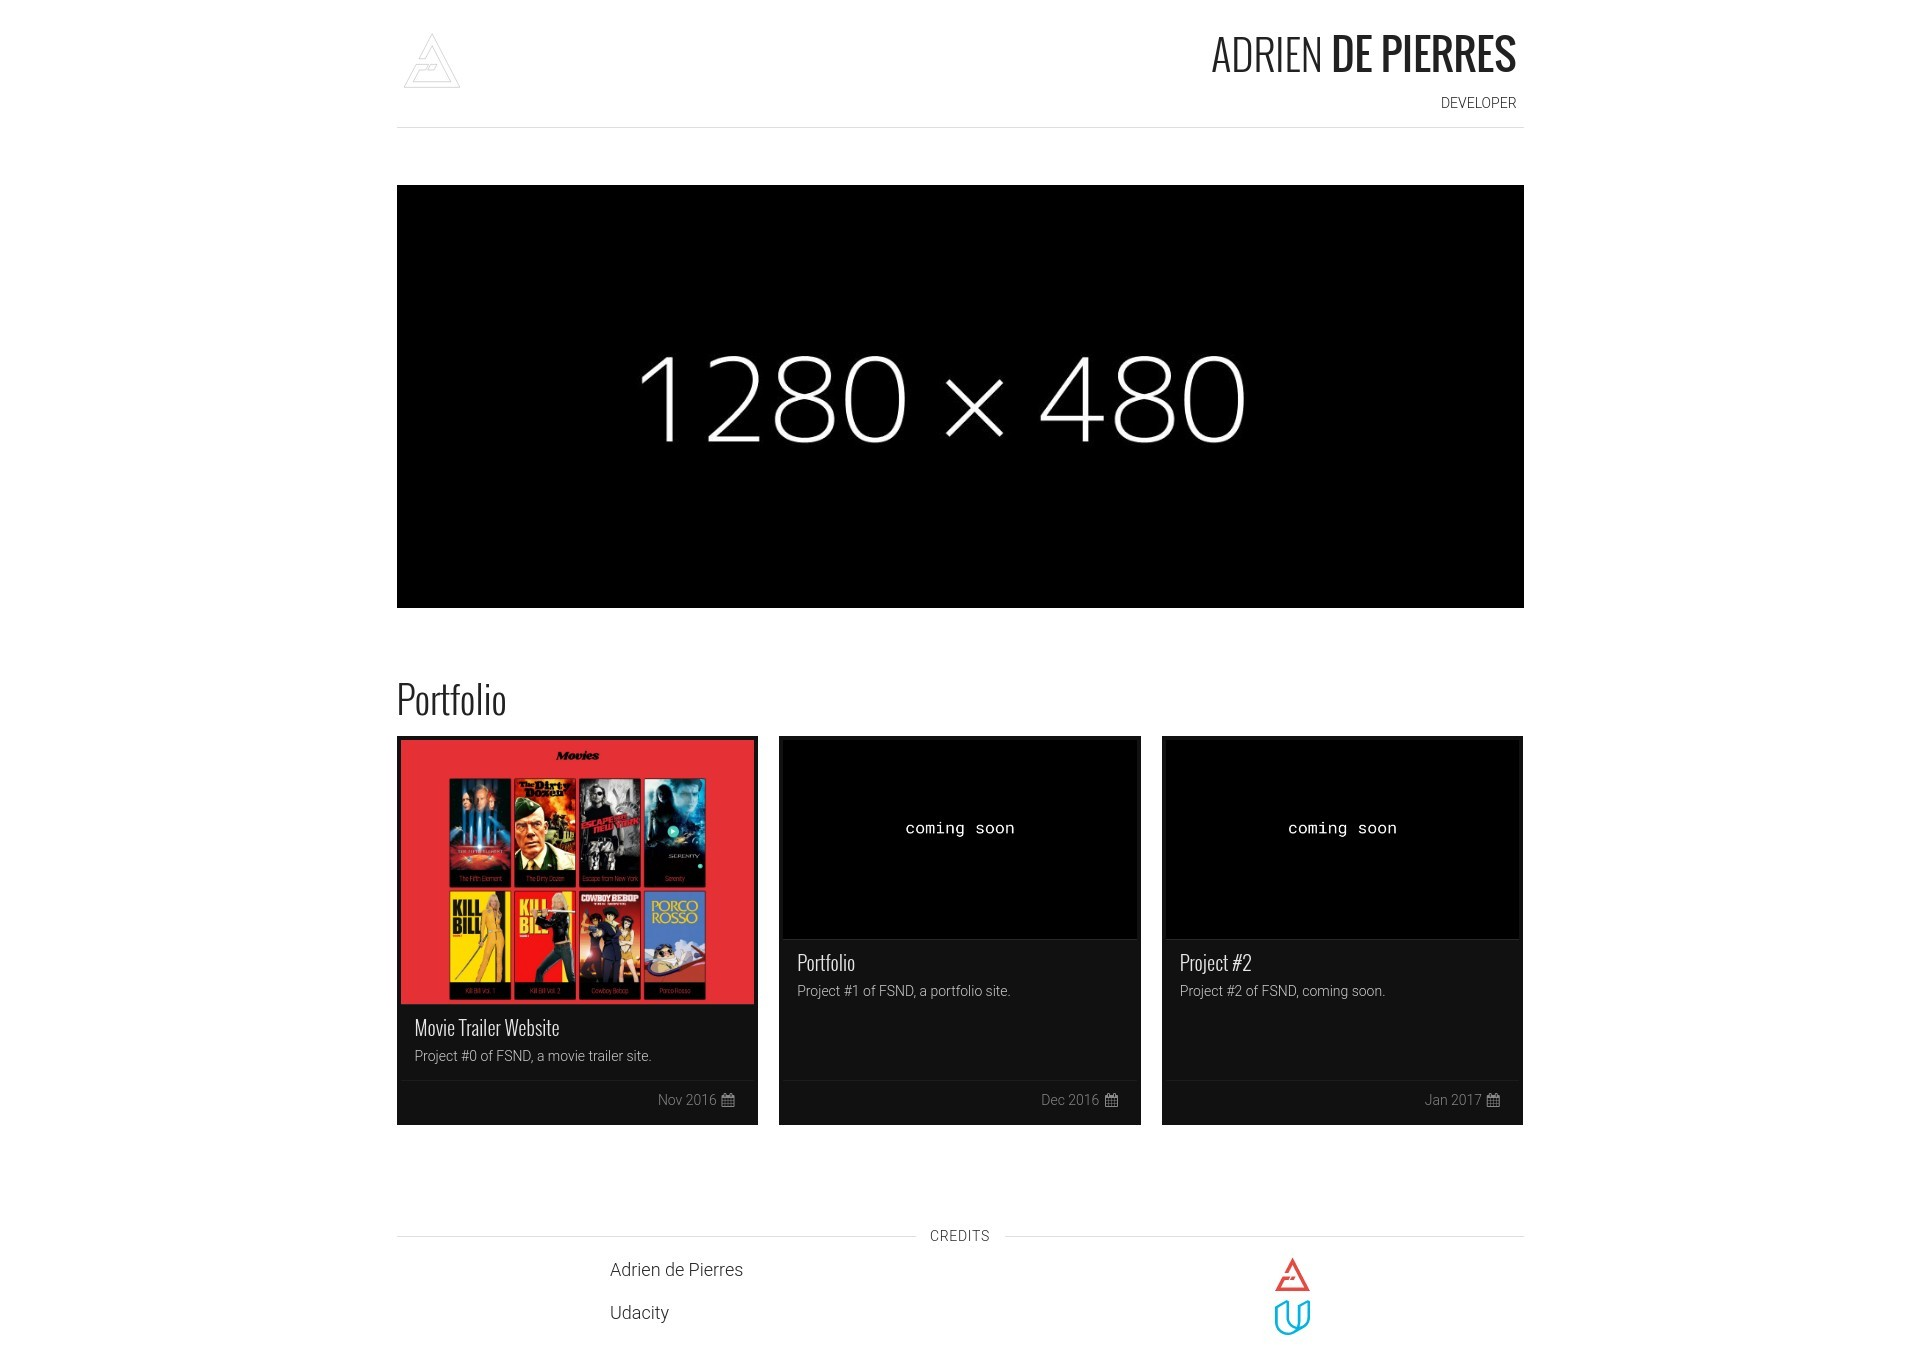
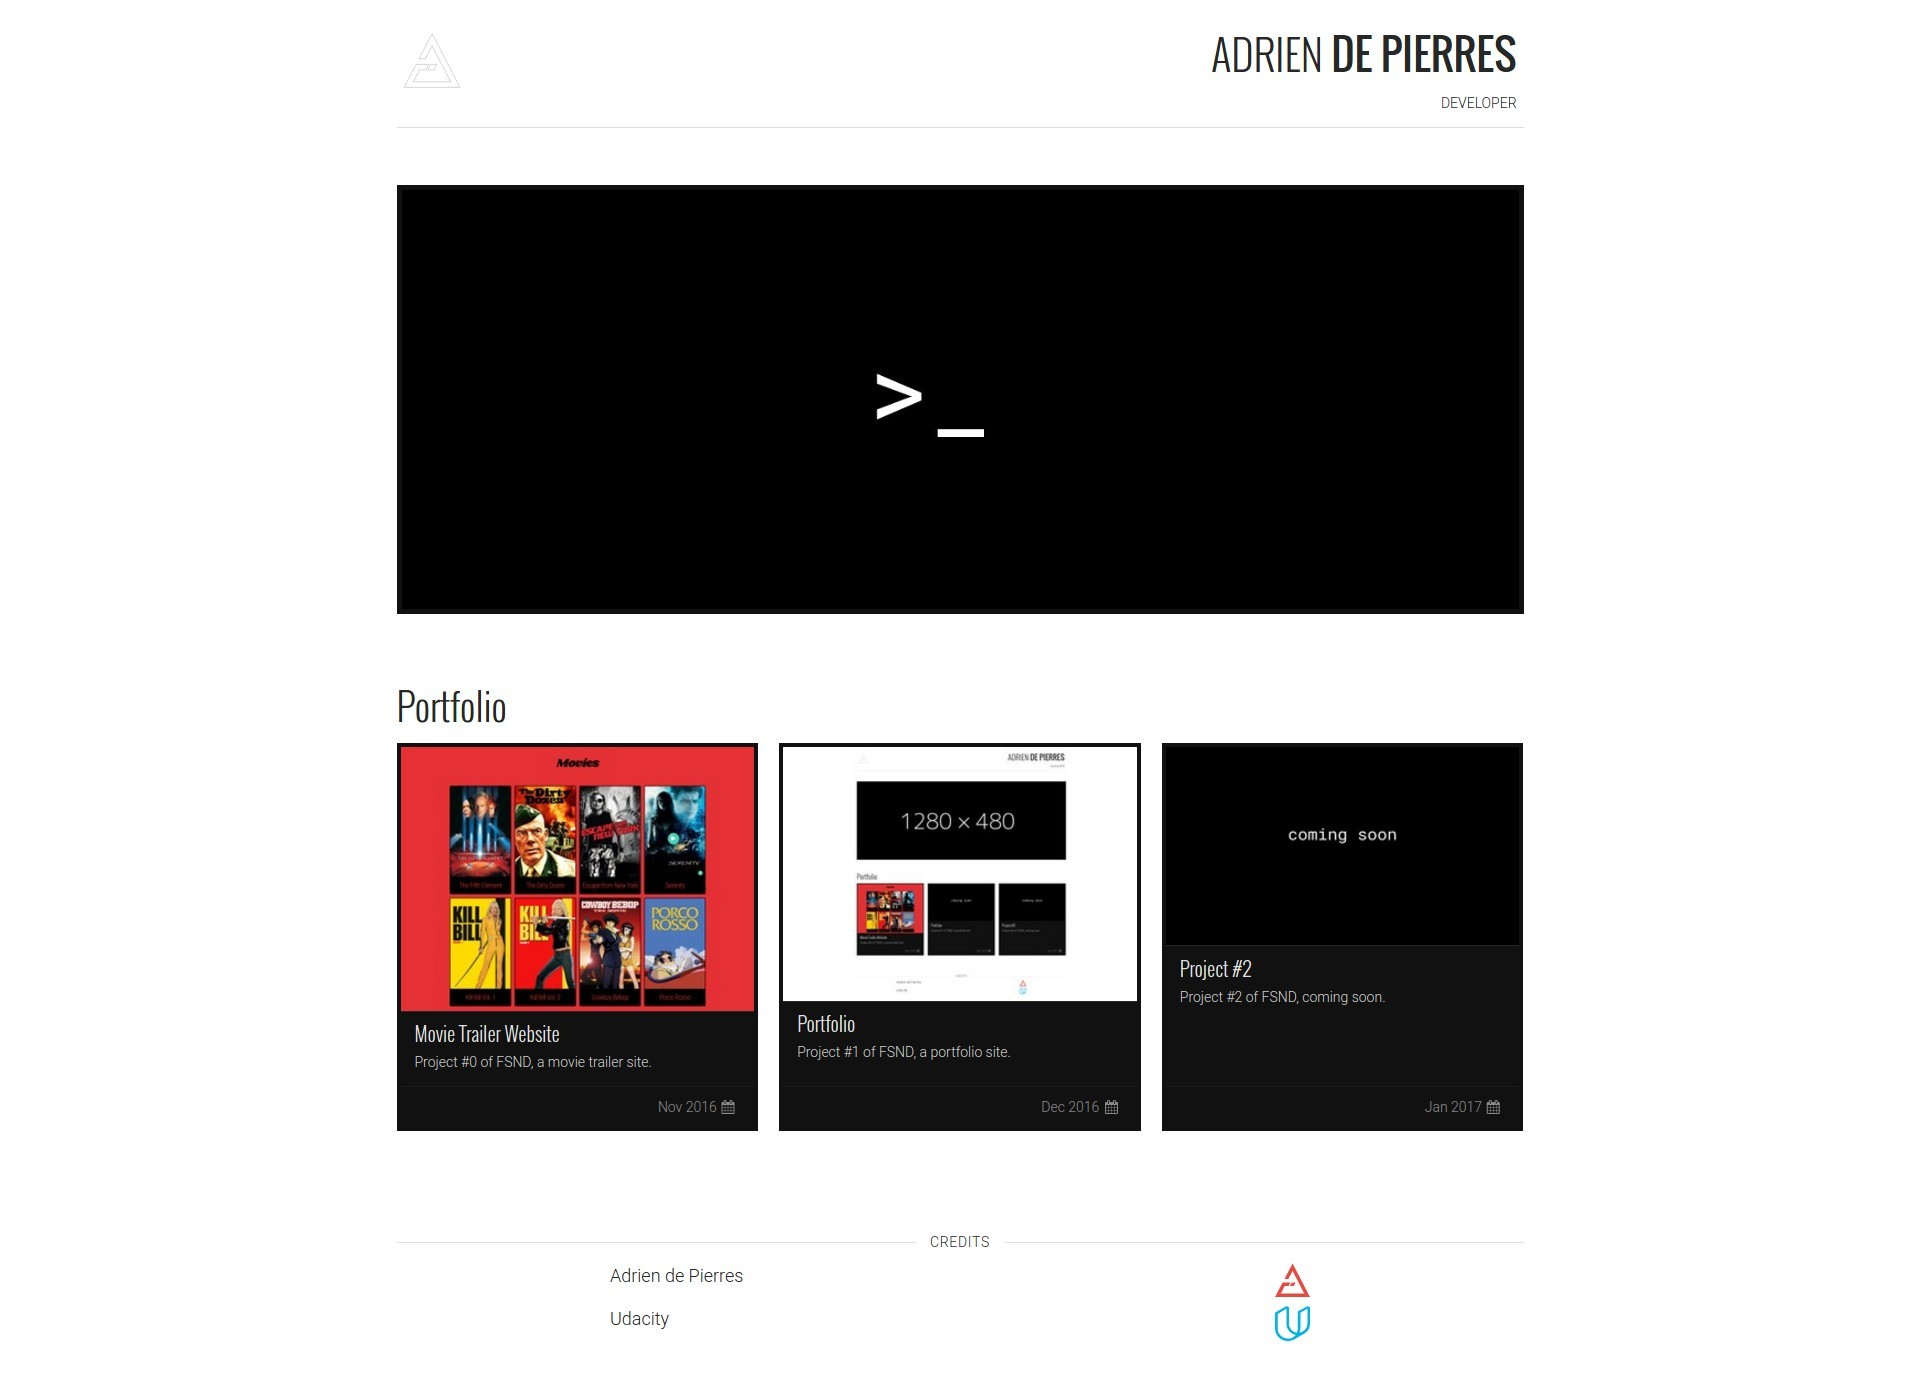
Update portfolio site screenshot, add to root for README.md.

diff --git a/pub/index.html b/pub/index.html
@@ -169,7 +169,67 @@
             <section class="content">
               <img src="&#x2F;projects&#x2F;fsnd_p1_portfolio&#x2F;screen-w1280.jpg" alt="screenshot" class="ui fluid bordered image">
               <p><h1 id="portfolio">Portfolio</h1>
-<h2 id="caveats">Caveats</h2>
+<p>Project #1 of FSND</p>
+<p>A portfolio static site generated with Gulp.
+All source files are in <code>src</code> and <code>semantic</code>.
+All built files are in <code>pub</code>.</p>
+<p>All development and testing was done on Linux (elementary OS 0.4 / Ubuntu 16.04) and Node.js v6.9.2, running the project under Windows was not tested, but it should run.</p>
+<p>A modern browser (IE 11 / Edge, current versions of Chrome / Firefox / Safari) that supports current flexbox is required to view the site.</p>
+<p>An internet connection is required to access online resources.</p>
+<h2 id="download-and-setup">Download and Setup</h2>
+<h3 id="download">Download</h3>
+<p>To download this project either:</p>
+<ul>
+<li>Clone this repo with <code>https://github.com/arccoza/fsnd_p1_portfolio.git</code></li>
+<li>Or download it as an archive from <a href="https://github.com/arccoza/fsnd_p1_portfolio/archive/master.zip">here</a> and unzip.</li>
+</ul>
+<h3 id="setup">Setup</h3>
+<p>Once you have the project in the <code>fsnd_p1_portfolio</code> directory (or wherever you put it) ensure you have a recent version of NPM and Node.js installed (&gt;= v6.9.2), instructions for installing Node.js on your platform can be found <a href="https://nodejs.org/en/download/package-manager/">here</a>. Once that&#39;s all done, install the projects dependencies, like so:</p>
+<ol>
+<li>Navigate to the project folder from the terminal.</li>
+<li>From the terminal in the project folder type <code>npm install</code>.</li>
+<li>NPM should successfully install the projects dependencies.</li>
+<li>Install Gulp globally with <code>npm install -g gulp-cli</code> or <code>sudo npm install -g gulp-cli</code> for linux/osx.</li>
+<li>Install Serve globally with <code>npm install -g serve</code> or <code>sudo npm install -g serve</code> for linux/osx.</li>
+</ol>
+<h2 id="building-and-running">Building and Running</h2>
+<p>To build and run the static site do:</p>
+<ol>
+<li>From the project folder in terminal type <code>gulp build</code>, this will build the entire project.<ul>
+<li>There are other build options available, but you should run a complete build at least once.</li>
+<li><code>build:site</code> will build only the html, javascript and images required for the site. Run this when modifying content in the <code>src</code> folder.<ul>
+<li><code>watch:site</code> will watch the <code>src</code> folder for changes and rebuild as needed.</li>
+</ul>
+</li>
+<li><code>build:ui</code> will build only the CSS and javascript required for site layout and elements. Run this when modifying content in the <code>semantic</code> folder.<ul>
+<li><code>watch:ui</code> will watch the <code>semantic</code> folder for changes and rebuild as needed.</li>
+</ul>
+</li>
+<li><code>watch</code> will watch both the <code>src</code> and <code>semantic</code> folders for changes.</li>
+</ul>
+</li>
+<li>After building the site, run <code>server pub -c</code> from the terminal inside the project folder to launch a webserver on <a href="http://localhost:3000/">http://localhost:3000/</a> hosting the files in the <code>pub</code> folder.</li>
+<li>Open <a href="http://localhost:3000/">http://localhost:3000/</a> in your browser to view the site.</li>
+</ol>
+<h2 id="usage">Usage</h2>
+<p>The site is fully responsive, test it with dev tools. Hover over images in the Portfolio section and click the view button to see a modal with more info about the project.</p>
+<h2 id="caveats-and-additional-info">Caveats and Additional Info</h2>
+<h3 id="site-css">Site CSS</h3>
+<p>The project uses the Semantic UI framework, using LESS.
+You can find the sites source CSS and LESS from the project folder in <code>semantic/src/site/</code>.</p>
+<p>These files contain site CSS and LESS:</p>
+<ul>
+<li><code>globals/reset.overrides</code></li>
+<li><code>globals/site.overrides</code></li>
+<li><code>globals/site.variables</code></li>
+<li><code>views/card.overrides</code></li>
+<li><code>views/card.variables</code></li>
+<li><code>collections/grid.variables</code></li>
+<li><code>elements/container.overrides</code></li>
+<li><code>elements/divider.variables</code></li>
+<li><code>modules/modal.overrides</code></li>
+</ul>
+<p>All other site content is in the <code>src</code> folder.</p>
 <h3 id="watchers">Watchers</h3>
 <p>There is a bug in the version of Gaze used by Gulp which will sometimes cause the watcher to crash, until the fix makes it into Gulp, just restart the watcher.</p>
 </p>

diff --git a/pub/projects/fsnd_p1_portfolio.html b/pub/projects/fsnd_p1_portfolio.html
@@ -1,4 +1,64 @@
 <h1 id="portfolio">Portfolio</h1>
-<h2 id="caveats">Caveats</h2>
+<p>Project #1 of FSND</p>
+<p>A portfolio static site generated with Gulp.
+All source files are in <code>src</code> and <code>semantic</code>.
+All built files are in <code>pub</code>.</p>
+<p>All development and testing was done on Linux (elementary OS 0.4 / Ubuntu 16.04) and Node.js v6.9.2, running the project under Windows was not tested, but it should run.</p>
+<p>A modern browser (IE 11 / Edge, current versions of Chrome / Firefox / Safari) that supports current flexbox is required to view the site.</p>
+<p>An internet connection is required to access online resources.</p>
+<h2 id="download-and-setup">Download and Setup</h2>
+<h3 id="download">Download</h3>
+<p>To download this project either:</p>
+<ul>
+<li>Clone this repo with <code>https://github.com/arccoza/fsnd_p1_portfolio.git</code></li>
+<li>Or download it as an archive from <a href="https://github.com/arccoza/fsnd_p1_portfolio/archive/master.zip">here</a> and unzip.</li>
+</ul>
+<h3 id="setup">Setup</h3>
+<p>Once you have the project in the <code>fsnd_p1_portfolio</code> directory (or wherever you put it) ensure you have a recent version of NPM and Node.js installed (&gt;= v6.9.2), instructions for installing Node.js on your platform can be found <a href="https://nodejs.org/en/download/package-manager/">here</a>. Once that&#39;s all done, install the projects dependencies, like so:</p>
+<ol>
+<li>Navigate to the project folder from the terminal.</li>
+<li>From the terminal in the project folder type <code>npm install</code>.</li>
+<li>NPM should successfully install the projects dependencies.</li>
+<li>Install Gulp globally with <code>npm install -g gulp-cli</code> or <code>sudo npm install -g gulp-cli</code> for linux/osx.</li>
+<li>Install Serve globally with <code>npm install -g serve</code> or <code>sudo npm install -g serve</code> for linux/osx.</li>
+</ol>
+<h2 id="building-and-running">Building and Running</h2>
+<p>To build and run the static site do:</p>
+<ol>
+<li>From the project folder in terminal type <code>gulp build</code>, this will build the entire project.<ul>
+<li>There are other build options available, but you should run a complete build at least once.</li>
+<li><code>build:site</code> will build only the html, javascript and images required for the site. Run this when modifying content in the <code>src</code> folder.<ul>
+<li><code>watch:site</code> will watch the <code>src</code> folder for changes and rebuild as needed.</li>
+</ul>
+</li>
+<li><code>build:ui</code> will build only the CSS and javascript required for site layout and elements. Run this when modifying content in the <code>semantic</code> folder.<ul>
+<li><code>watch:ui</code> will watch the <code>semantic</code> folder for changes and rebuild as needed.</li>
+</ul>
+</li>
+<li><code>watch</code> will watch both the <code>src</code> and <code>semantic</code> folders for changes.</li>
+</ul>
+</li>
+<li>After building the site, run <code>server pub -c</code> from the terminal inside the project folder to launch a webserver on <a href="http://localhost:3000/">http://localhost:3000/</a> hosting the files in the <code>pub</code> folder.</li>
+<li>Open <a href="http://localhost:3000/">http://localhost:3000/</a> in your browser to view the site.</li>
+</ol>
+<h2 id="usage">Usage</h2>
+<p>The site is fully responsive, test it with dev tools. Hover over images in the Portfolio section and click the view button to see a modal with more info about the project.</p>
+<h2 id="caveats-and-additional-info">Caveats and Additional Info</h2>
+<h3 id="site-css">Site CSS</h3>
+<p>The project uses the Semantic UI framework, using LESS.
+You can find the sites source CSS and LESS from the project folder in <code>semantic/src/site/</code>.</p>
+<p>These files contain site CSS and LESS:</p>
+<ul>
+<li><code>globals/reset.overrides</code></li>
+<li><code>globals/site.overrides</code></li>
+<li><code>globals/site.variables</code></li>
+<li><code>views/card.overrides</code></li>
+<li><code>views/card.variables</code></li>
+<li><code>collections/grid.variables</code></li>
+<li><code>elements/container.overrides</code></li>
+<li><code>elements/divider.variables</code></li>
+<li><code>modules/modal.overrides</code></li>
+</ul>
+<p>All other site content is in the <code>src</code> folder.</p>
 <h3 id="watchers">Watchers</h3>
 <p>There is a bug in the version of Gaze used by Gulp which will sometimes cause the watcher to crash, until the fix makes it into Gulp, just restart the watcher.</p>
